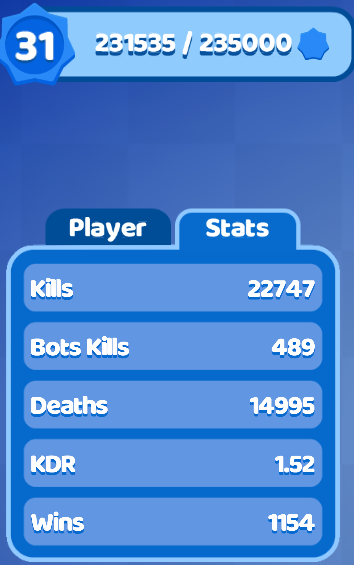
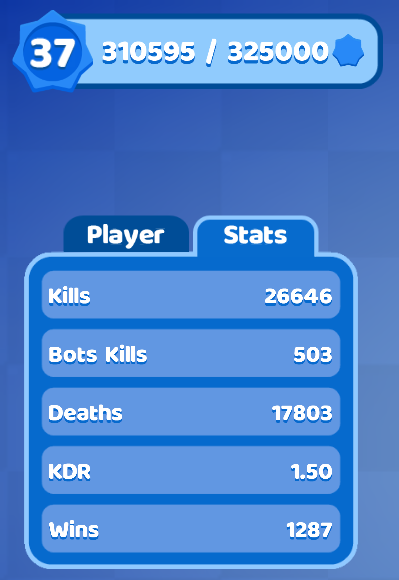
Update for Drew

diff --git a/playerList.js b/playerList.js
@@ -525,13 +525,13 @@ let player = [
 	 '8/11/2021'],
     ['Phantom\'sSis.png', // Drew
      'Phantom\'sSis',
-     1154,
-     22747,
-     489,
-     14995,
-     '1.52',
-     31,
-     '8/11/2021'],
+     1287,
+     26646,
+     503,
+     17803,
+     '1.50',
+     37,
+     '8/27/2021'],
     ['DW.png',
 	 'DW',
 	 258,
